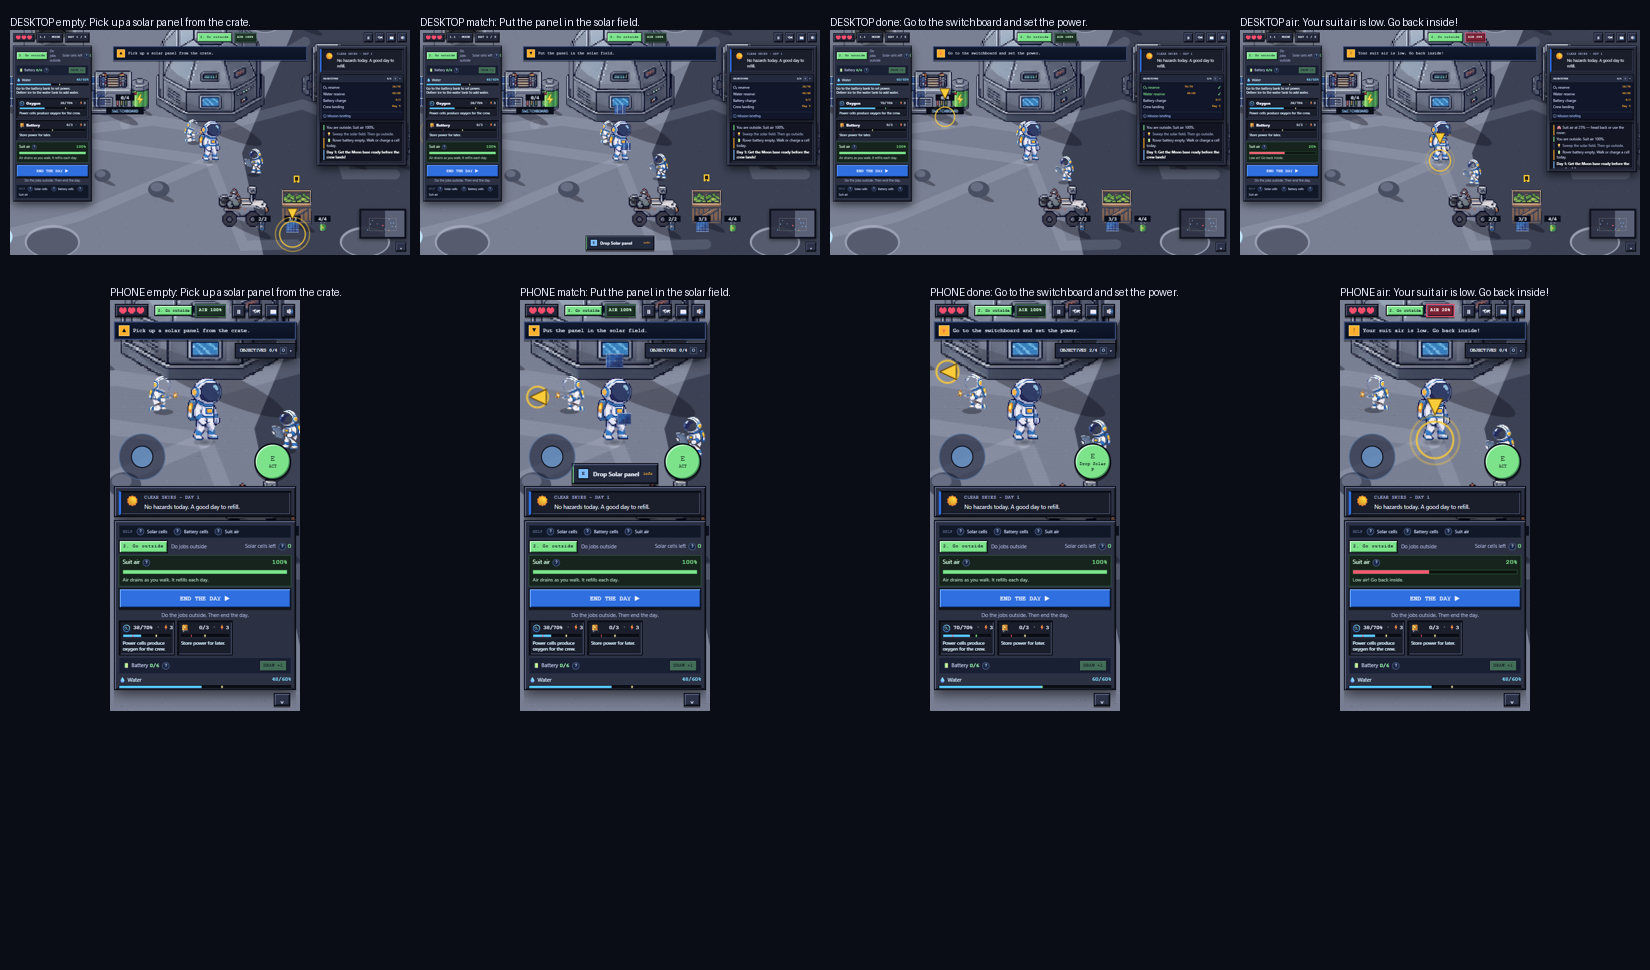
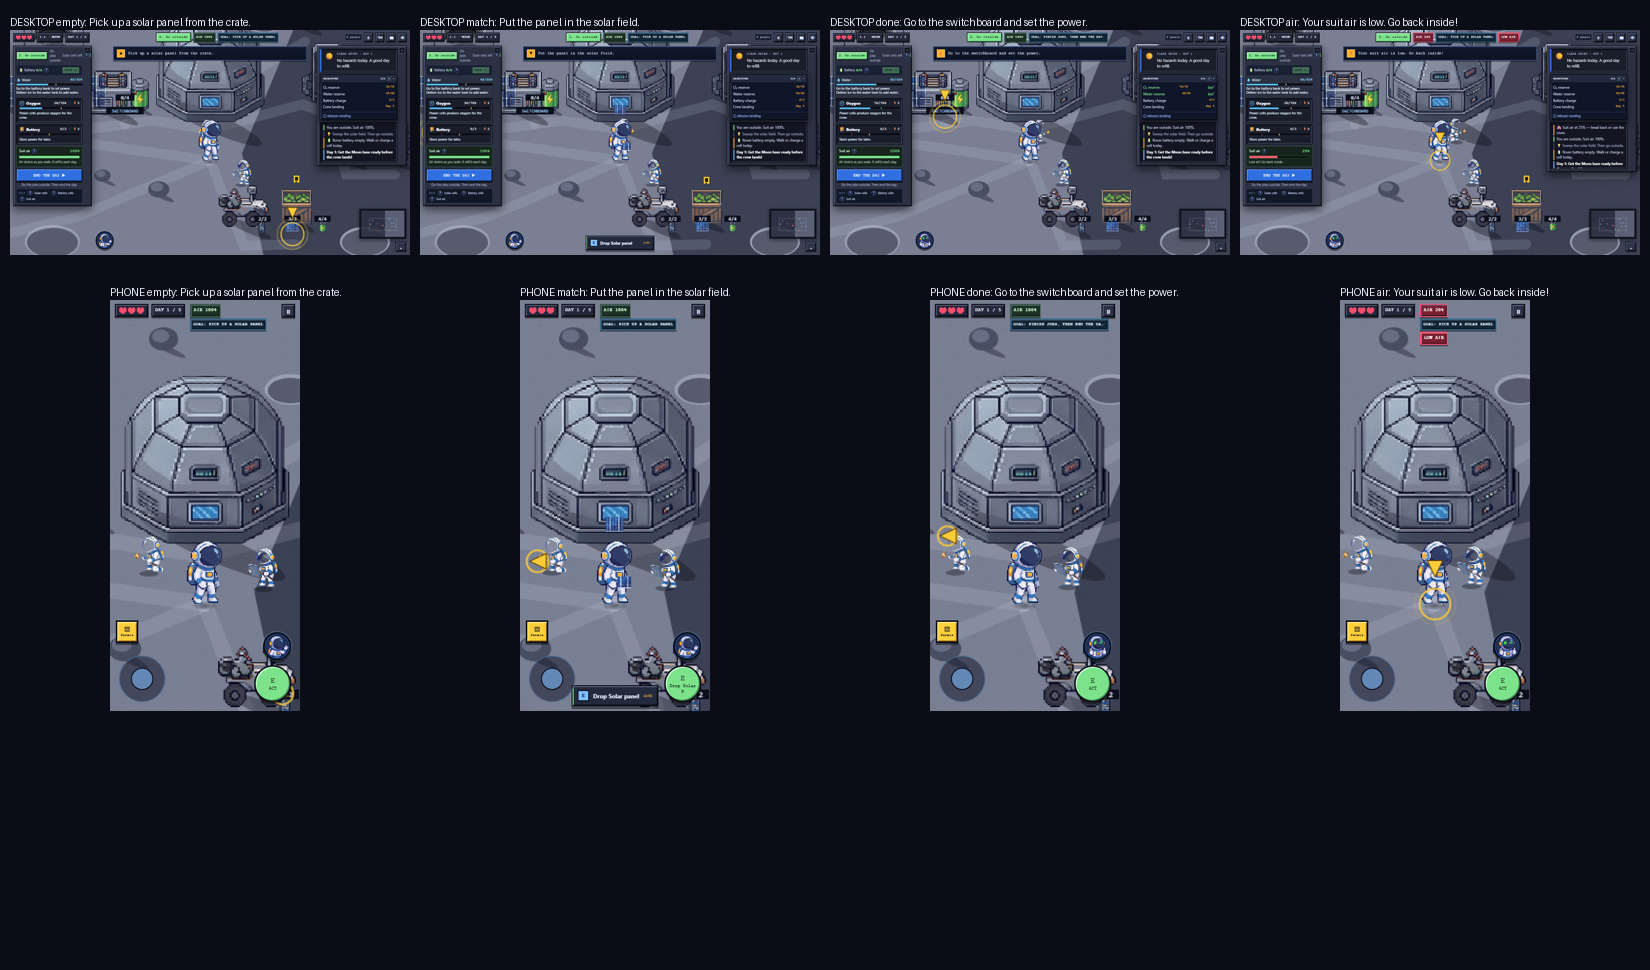
docs(release): document Space Buddy 3.3.0 polish and QA

diff --git a/tools/out/SPACE_BUDDY_POLISH_REPORT.md b/tools/out/SPACE_BUDDY_POLISH_REPORT.md
@@ -1,0 +1,148 @@
+# Space Buddy 3.3.0 polish report
+
+- Branch: `feature/space-buddy-polish`
+- Base: `origin/main` `cf2bb8a` (includes Buddy PR #6 and rename PR #8)
+- Release version: **3.3.0**
+- Date: 2026-11-16
+- Status: commits are local; the branch had not been pushed when this report was written.
+
+## Commit series
+
+| Commit | Purpose |
+| --- | --- |
+| `b94a927` | `feat(ui): add Full/Focus panels with persistent P toggle` |
+| `9a4dec4` | `feat(ice): slice outcrop sprite and move ice source closer` |
+| `59b0b61` | `feat(rover): use sliced seated riding sprite with mirror and roll dust` |
+| `4cccbfe` | `feat(loading): add img14 parallax scene and live runner` |
+| `b72f5c3` | `feat(icons): add transparent pixel moon favicon set` |
+| `e4c8c6c` | `fix(ui): finish HUD, thumb panels and coach controls` |
+| `8b41f4b` | `fix(loading): remove background plates from img14 cutouts` |
+| `85421d8` | `test(qa): cover panel polish, loading runner and icons` |
+
+The final documentation/screenshot commit is the commit that adds this report. Each
+feature above is independently revertable with `git revert <hash>`.
+
+## Panels
+
+- Desktop `1.1` Day 1 starts **Full**; desktop `1.2`, `1.3`, later starts and all
+  compact/phone starts use **Focus**. An explicit `P` choice is stored in the existing
+  `jamt.settings` record under `panels`.
+- The HUD keeps the four persistent facts in both modes on phones: **hearts, day,
+  air and a one-line goal**. Full mode on a phone uses a two-row HUD and moves the
+  coach and tracker below it so nothing is covered.
+- The phone thumb button is 46x46 px, stays in the lower-left safe-area zone, clears
+  the thumbstick, ACT button and Buddy, and opens the bottom drawer in one tap. Plan
+  power is visible immediately; the landscape drawer remains capped at `22vh`.
+- Dock headers collapse independently (`#dock-left-collapse`, `#dock-right-collapse`).
+- Panels auto-hide during a station hold or Buddy chat. The coach becomes one faded,
+  non-wrapping line after the first action. `P` is ignored while typing in Buddy chat.
+- QA overlap checks use the real `.dock-left` / `.dock-right` columns, not the
+  full-screen `#panel` container.
+
+## Ice
+
+- Committed `assets/ice/deposit.png` (128x58) and `assets/ice/chunk.png` (40x33),
+  registered in `assets/manifest.js` and `tools/check_assets.py`.
+- The source is `148,552`; the legacy overlapping `{id:'ice', …}` station was removed,
+  so mining starts at the outcrop and the deposit is rendered.
+- Base → ice → tank → base is **1824 px → 1312 px**. The four-chunk air trip is
+  **48.9% → 35.2%** of a full suit. Ice remains the farthest source and still triggers
+  “That is far. Use the rover!”.
+- The old ice-patch draw was removed; the digging animation and rules are unchanged.
+
+## Rover
+
+- `assets/rover/ride.png` (128x122) is the mounted rider, drawn at 92x88, facing right
+  and mirrored when driving left.
+- Roll bob and optional dust are used while moving. The source sheet has **no distinct
+  wheel-spin frames**, so wheels stay static; the old rover + walker remain the fallback
+  when the rider slice is missing.
+- Hitbox, speed, capacity and battery behavior are unchanged and covered by the
+  existing rover regression checks.
+
+## Loading
+
+- Nine transparent `img14` cutouts in `assets/loading` plus the procedural starfield.
+  Total committed loading art: **52,230 bytes** (< 300 KB).
+- The latest slicer uses a parent-pixel flood for the gradient background so
+  satellites, asteroids and the ringed planet no longer leave rectangular plates.
+  Planet/astronaut cutouts use a tighter local flood; all nine resolve from the manifest.
+- The astronaut follows the real `Loading... N/M` count, stops and celebrates at 100%,
+  and the START gate stays disabled until loading completes. Reduced motion is handled.
+- Art swaps are manifest-only; no gameplay code paths were changed.
+- The loader counted **191/191** assets in the final checks.
+
+## Favicon
+
+- Transparent pixel-art moon in `assets/icons/`:
+  `favicon.svg`, `favicon.ico`, and PNGs at 16, 32, 48, 180, 192 and 512 px.
+- The 16x16 icon is readable and has no black/magenta fringe in the checker preview.
+- Head links use `?v=3.3.0`; the old favicon links are gone. QA checks dimensions,
+  corner alpha and file/HTTP 404s.
+- Preview: `tools/out/favicon_preview.png`.
+
+## QA evidence
+
+Commands run from `C:\Projects\Nasa`:
+
+```text
+python tools/check_assets.py
+  checked 221 references
+  all asset paths exist with exact case
+
+node --check <every .js file>
+  all JS syntax ok
+
+python tools/qa.py
+  166/166 checks passed
+
+python tools/qa.py --url http://127.0.0.1:8765
+  166/166 checks passed
+
+python tools/sim.py --runs 600
+  build 3.3.0; 22/22 targets pass
+```
+
+HTTP console/404 pass: `tools/out/http_404_check.txt` records, for `1.1`, `1.2` and
+`1.3`, **0 console/page errors, 0 4xx/5xx responses, 0 failed requests**, and
+**191/191 assets** loaded.
+
+The polish QA section covers Full/Focus default and persistence, typing-safe `P`,
+hold/chat auto-hide, faded coach, dock collapse, the phone thumb button/drawer, six
+sizes in both modes, loading runner/gate/budget/reduced motion, favicon alpha/size/404,
+and sliced-art registration. `tools/sim_results.json` now records the current build
+version so the sim freshness warning is gone.
+
+## Screenshots (`tools/out`)
+
+- Panels: `panel_full_1280x720_en.png`, `panel_focus_1280x720_en.png`,
+  `panel_full_390x844_en.png`, `panel_focus_390x844_en.png`.
+  Extra full-mode checks: 360x640, 768x1024 and 844x390.
+- Buddy Arabic: `buddy_ar_1280x720.png`, `buddy_ar_390x844.png`.
+- Loading at 0/50/100%: `loading_000_*`, `loading_050_*`, `loading_100_*` at
+  1280x720 and 390x844.
+- Ice: `ice_deposit_1280x720.png`, `ice_deposit_390x844.png`.
+- Rover rider: `rover_ride_1280x720.png`, `rover_ride_390x844.png`.
+- Favicon: `favicon_preview.png`.
+- Regression captures refreshed by QA: `action_check.png`, `coach_check.png`,
+  `layout_desktop.png`, `layout_phone.png`, `walk_check.png`.
+
+## Not verified / caveats
+
+- **Real devices**: no physical iOS Safari or Android Chrome pass was run. Safe-area
+  env() and touch behavior were tested in Chromium emulation only. Screen-reader and
+  OS-level reduced-motion behavior were not device-tested.
+- **Arabic UI matrix**: the shipped game chrome and HUD are English-only; only Buddy
+  has an existing EN/AR translator. The report includes Arabic Buddy screenshots and
+  the existing RTL/brand `<bdi>` QA, but not Arabic Full/Focus chrome screenshots.
+- **Favicon at OS scale**: dimensions, alpha and 16x16 readability were checked; actual
+  browser-tab/OS icon rendering and cache behavior were not tested on real devices.
+- **Rover wheel spin**: source art has no wheel-spin frame; static wheels with roll bob
+  and dust are intentional. The fallback path is covered by QA.
+- **Landscape drawer**: Full is intentionally capped at `22vh`; it is usable but tight.
+  Portrait phone layouts are the primary Full experience.
+- No PWA manifest exists, so installability/apple-touch startup behavior was not added
+  or tested.
+- No localStorage keys, repository name, URL, filenames, levels, balance rules or the
+  digging animation were renamed or changed. The sim was re-run on the same rules; only
+  its recorded build version and sampled results were refreshed.

diff --git a/README.md b/README.md
@@ -25,6 +25,46 @@ tools/       slice_assets.py · sim.py · qa.py
 
 
 
+## v3.3.0 - Space Buddy polish
+
+- **Panels**: a persistent HUD goal/air/hearts/day strip, critical alerts, and one free **P**
+  toggle between **Full** and **Focus**. Desktop `1.1` Day 1 starts Full; every other
+  desktop/phone start is Focus. An explicit choice is stored in the existing
+  `jamt.settings` record. The phone toggle is a 46 px safe-area thumb button that opens a
+  bottom drawer with Plan power one tap away. Left/right dock headers collapse their own
+  panel, panels auto-hide during a hold or Buddy chat, the coach is one faded line after the
+  first action, and hotkeys (including **P**) are ignored while typing in chat.
+- **Ice**: `assets/img13` is chroma-keyed and defringed into `assets/ice/deposit.png`
+  (128x58) and `assets/ice/chunk.png` (40x33), registered in `assets/manifest.js` and
+  `tools/check_assets.py`. The old blob/station overlap is gone; the source is now
+  `148,552` and draws the deposit. Base -> ice -> tank -> base is **1824 -> 1312 px**, and
+  the four-chunk air trip is **48.9% -> 35.2%** of a full suit. Ice remains the farthest
+  source and the coach still says to use the rover for it.
+- **Rover**: the clean right-facing mounted rider from `assets/img6` is sliced into
+  `assets/rover/ride.png` (128x122), mirrors when driving left, and uses a roll bob plus
+  optional dust while moving. The sheet has no separate wheel-spin frame, so wheels are
+  static and the old rover + walker remain the fallback if the rider is missing. Hitbox,
+  speed, capacity and battery rules are unchanged.
+- **Loading**: the `img14` planets, satellites and asteroids are cut into nine transparent
+  PNGs (`assets/loading`, **52,230 bytes**) with a procedural starfield and slow parallax.
+  The astronaut follows the real `Loading... N/M` count, stops at 100%, celebrates when the
+  gate enables, and respects reduced motion. Art paths are manifest-only so they can be
+  swapped without touching logic.
+- **Favicon**: a transparent 16x16 pixel moon in the game palette ships as
+  `assets/icons/favicon.svg`, `.ico`, and 16/32/48/180/192/512 PNGs. The icons have no
+  black or magenta fringe, are linked with `?v=3.3.0`, and are checked for dimensions,
+  corner alpha and 404s.
+- **QA**: **166/166** in `tools/qa.py`, including six sizes in both modes, panel
+  persistence and typing safety, loading runner tracking, favicon/asset alpha and sliced-art
+  registration. `tools/check_assets.py` passes **221** references; every JS file passes
+  `node --check`. The same suite runs through `file://` and an HTTP server. Screenshots are
+  in `tools/out/` (Full/Focus EN at 1280x720 and 390x844, Buddy AR, loading 0/50/100,
+  ice and rover). The full QA/screenshot/caveat report is
+  `tools/out/SPACE_BUDDY_POLISH_REPORT.md`.
+- No localStorage keys, repository name, URL, filenames, gameplay balance, levels or
+  digging animation were renamed or changed. Real-device Safari/iOS safe-area behavior was
+  not tested; desktop Chromium and emulated touch viewports are verified.
+
 ## v3.2.6 - Rename to Space Buddy
 
 - The game is now **Space Buddy**. The loading screen, title screen, Credits, page title,
